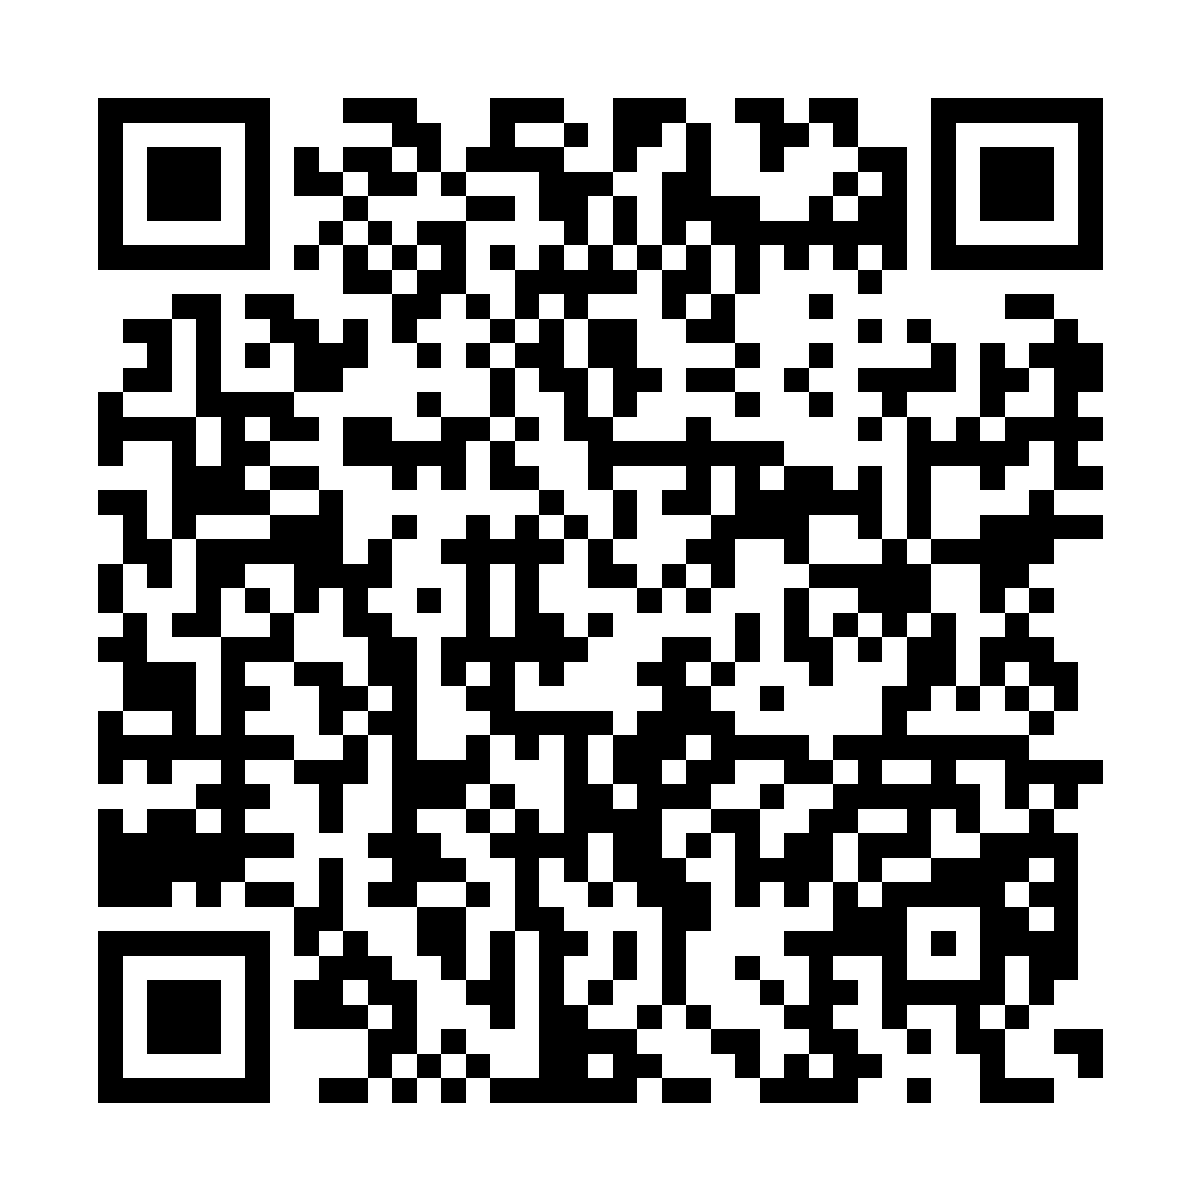
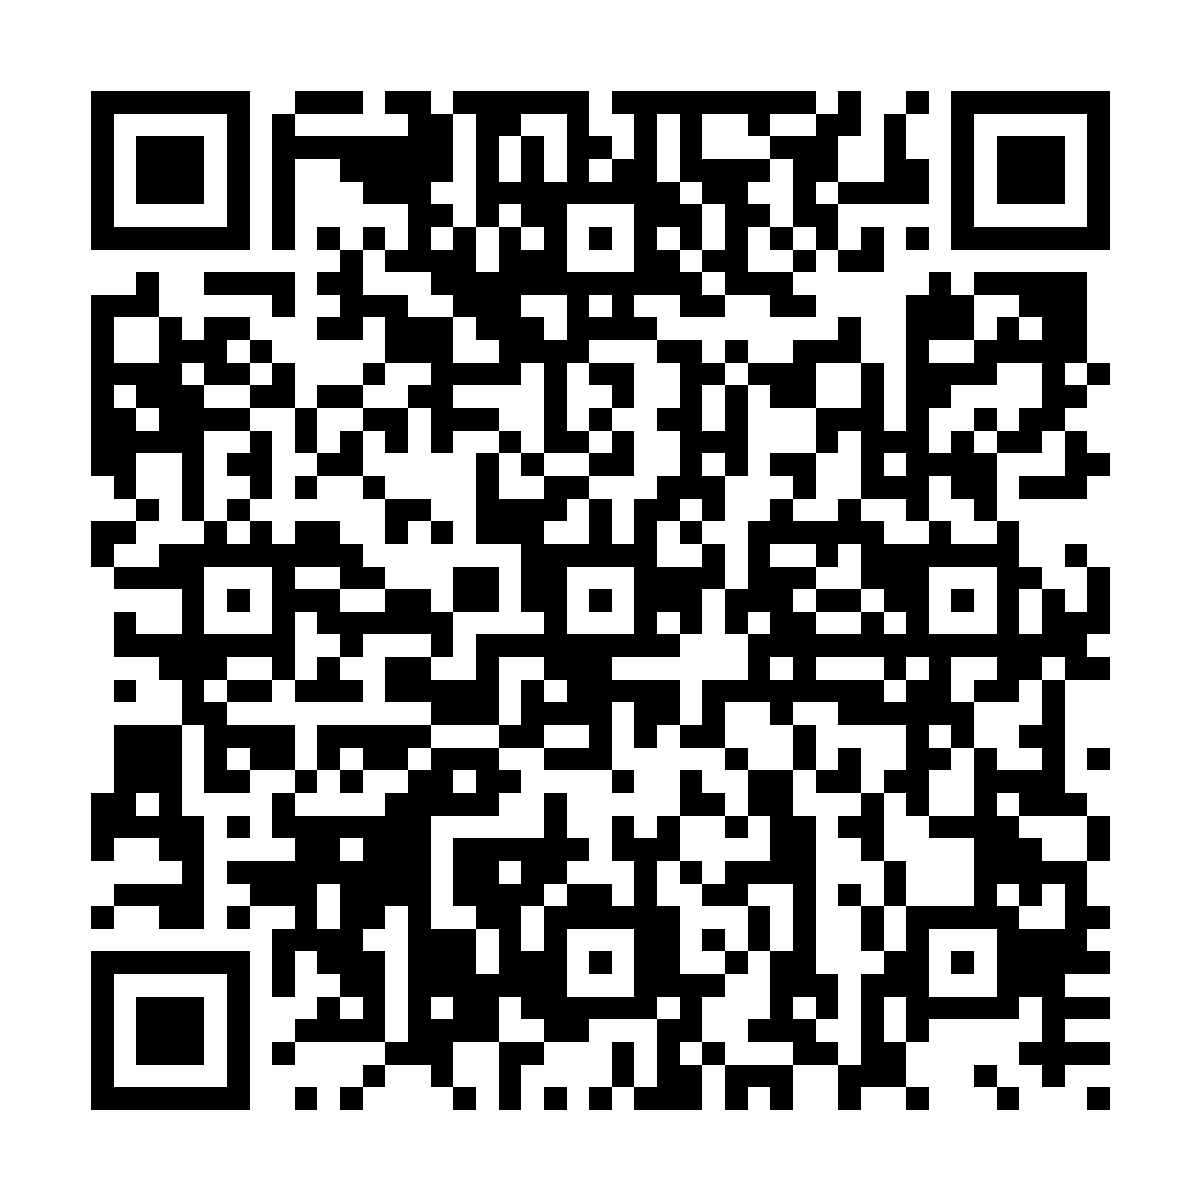
Regenerate QR code with a version tag so phones load the new seat map
Claude-Session: https://claude.ai/code/session_01P8sbzkyoVvxR9Lrw3DCqxr

diff --git a/HANDOFF.md b/HANDOFF.md
@@ -32,7 +32,7 @@ EnergyPlus 里的空调控制器上，看个性化能不能在同等舒适下省
 | R/brms 环境 + Favero 复现 | 完成，44 个参数误差 ≤ 0.005，LOOIC 一致 | `R/`、`output/` |
 | 在线问卷网页 | 已上线（GitHub Pages，分支 `survey-site`，目录 `/docs`） | `docs/index.html` |
 | 问卷后台（Google Apps Script → Google 表格） | **已通**（10/18 用户扫码投票，`/exec` 显示 `votes: 1`） | `survey/apps_script.gs`、`survey/README.md` |
-| 二维码 | 完成（10/18 重新生成，高容错 H 级、1200 px，已解码验证指向问卷网址） | `survey/vote_qr.png` |
+| 二维码 | 完成（10/18 新座位图后重新生成，指向 `…/final-year-project/?v=1018b`；`v` 只用来绕过手机缓存，页面不读它；旧二维码也仍然有效） | `survey/vote_qr.png` |
 | Microsoft Forms 备用方案 | 导入用 Word 文件（已不用，留作备份） | `survey/msforms_backup/` |
 
 - 问卷网址：<https://auz223243-hub.github.io/final-year-project/>（加 `?preview` 为测试模式，不发送数据）
@@ -157,7 +157,7 @@ docs/index.html            问卷网页（GitHub Pages 发布目录），CONFIG 
 survey/apps_script.gs      Google Apps Script 后台
 survey/README.md           后台部署说明（含 clasp 更新步骤）+ 表格列说明
 survey/.clasp.json 等       clasp 配置：scriptId、网页应用 manifest、只推送 apps_script.gs
-survey/vote_qr.png         问卷二维码（指向问卷网址；网址不变就不用重新生成）
+survey/vote_qr.png         问卷二维码（网址带 ?v= 版本标记；页面大改后可换个 v 值重新生成，逼手机加载新版）
 survey/msforms_backup/     Microsoft Forms 导入文件（备份，已不用）
 proposal/                  修订版 proposal（docx/pdf）和生成脚本（content.js 是正文，build.js 生成 Word）
 R/                         00 冒烟测试、01 抽取 Favero 子集、02 复现 Favero
